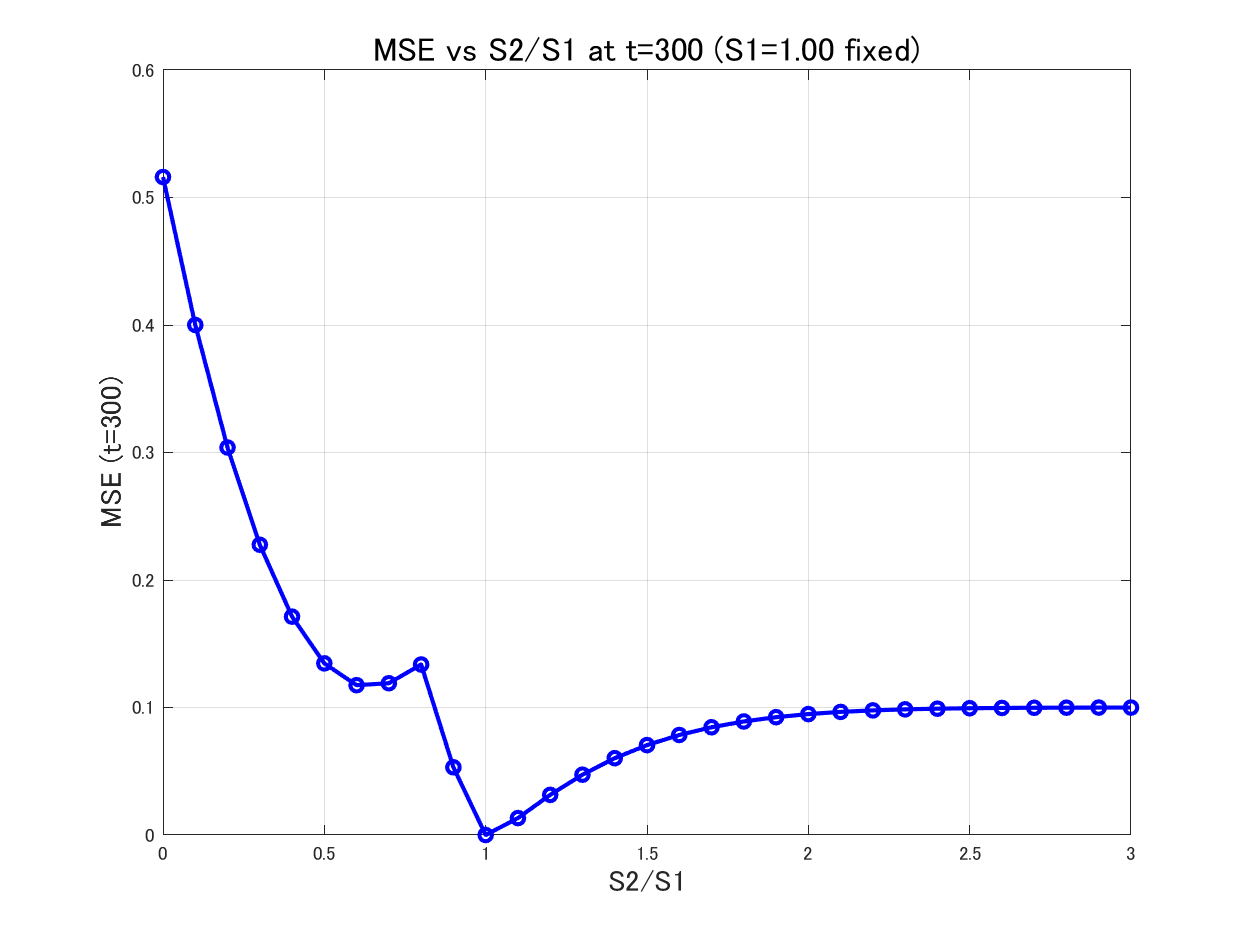
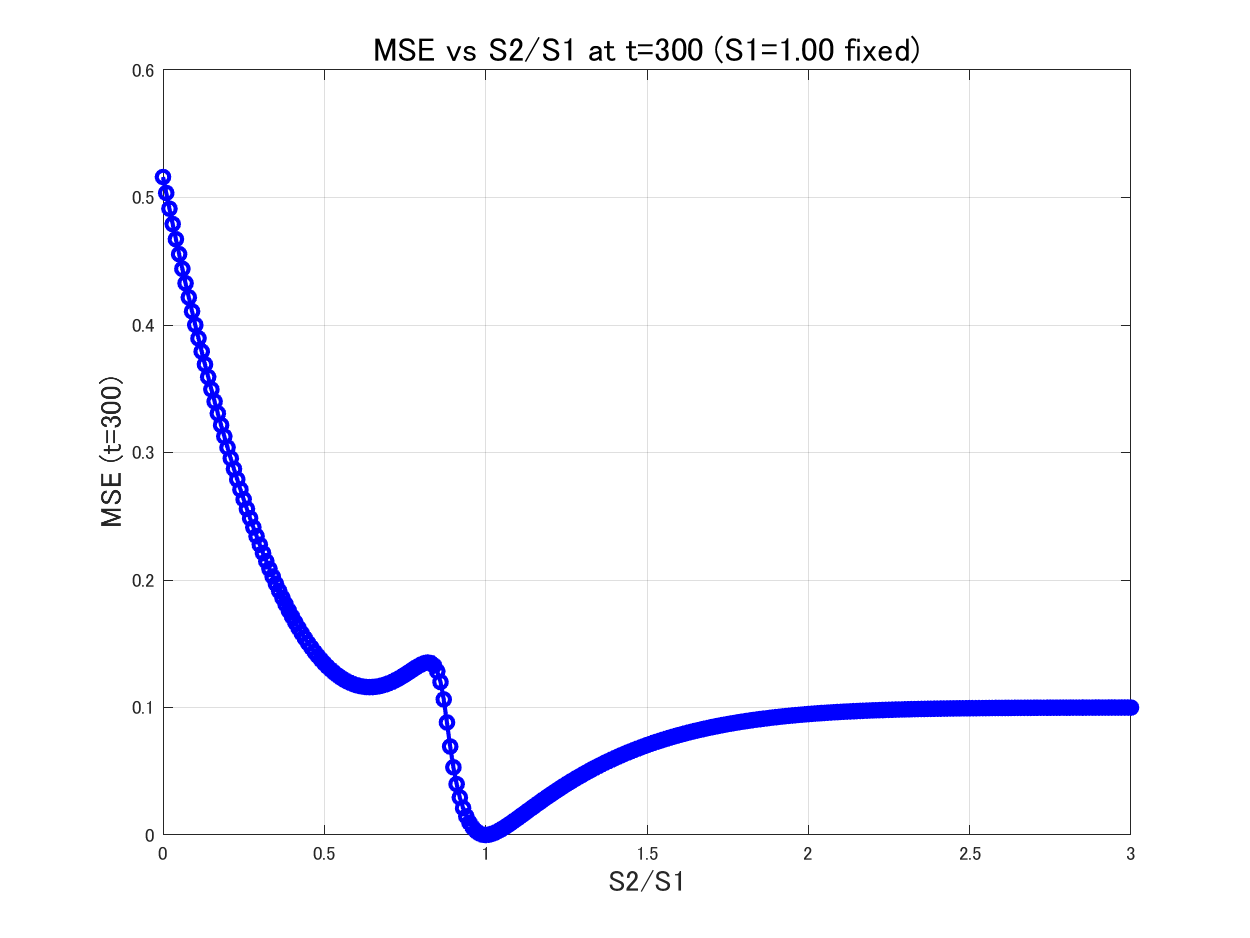
S1=1でめちゃくちゃ細かく記録したやつ

diff --git a/MSEteijotheory.m b/MSEteijotheory.m
@@ -6,7 +6,7 @@ if ~exist('output', 'dir')
     mkdir('output');
 end
 
-tEnd = 1000;
+tEnd = 300;
 
 tic; % ストップウォッチタイマー開始
 
@@ -19,7 +19,7 @@ xi = 0.1;
 mu = 0.1;
 sgm_g = sqrt(1);
 
-PRS = 1e-9; % 数値積分の精度 RelTol, AbsTol (1e-6 から 1e-9 に変更)
+PRS = 1e-6; % 数値積分の精度 RelTol, AbsTol 
 RNG = 7; % 数値積分の範囲を決めるパラメータ
 
 fname = fullfile('output', char(['dyhouwa1intS2loop', ', tEnd=', num2str(tEnd), ', mu=', num2str(mu), ...
@@ -40,8 +40,8 @@ for i = 1:length(S2loop)
     fprintf('Progress for S2=%2f : %2f%%\n', S2, (i/length(S2loop)) * 100);
 
     % ソルバーで時間発展を計算 ODE
-    options = odeset('RelTol', 1e-9, 'AbsTol', 1e-9, 'MaxStep', 0.1); % MaxStepを追加して時間刻みを制限
-    [t, y] = ode45(@(t, y) odefun(t, y), [0 tEnd], [1e-12, 1e-12], options); % 初期値を1e-12に変更
+    options = odeset('RelTol', 1e-6, 'AbsTol', 1e-6, 'MaxStep', 0.1); % MaxStepを追加して時間刻みを制限
+    [t, y] = ode45(@(t, y) odefun(t, y), [0 tEnd], [1e-9, 1e-9], options); % 初期値を1e-12に変更
 
     % 最終時刻のQ, rを取得
     Q_final = y(end, 1);

diff --git a/MSEtheory_S2sweep.m b/MSEtheory_S2sweep.m
@@ -8,7 +8,7 @@ tic; % ストップウォッチタイマー開始
 global fd2 dfd PRS RNG mu S1 S2 xi rho sgm_g
 
 rho = 1;
-S1 = 2;  % S1を固定
+S1 = 1;  % S1を固定
 xi = 0;
 mu = 1;
 sgm_g = sqrt(1);
@@ -23,7 +23,7 @@ if ~exist(outputDir, 'dir')
 end
 
 % S2/S1の範囲設定
-S2_S1_ratio = linspace(0, 3, 31); % 0から3まで31点（0.1刻み）
+S2_S1_ratio = linspace(0, 3, 301); % 0から3まで301点（0.1刻み）
 num_ratios = length(S2_S1_ratio);
 
 % 結果保存用の配列
